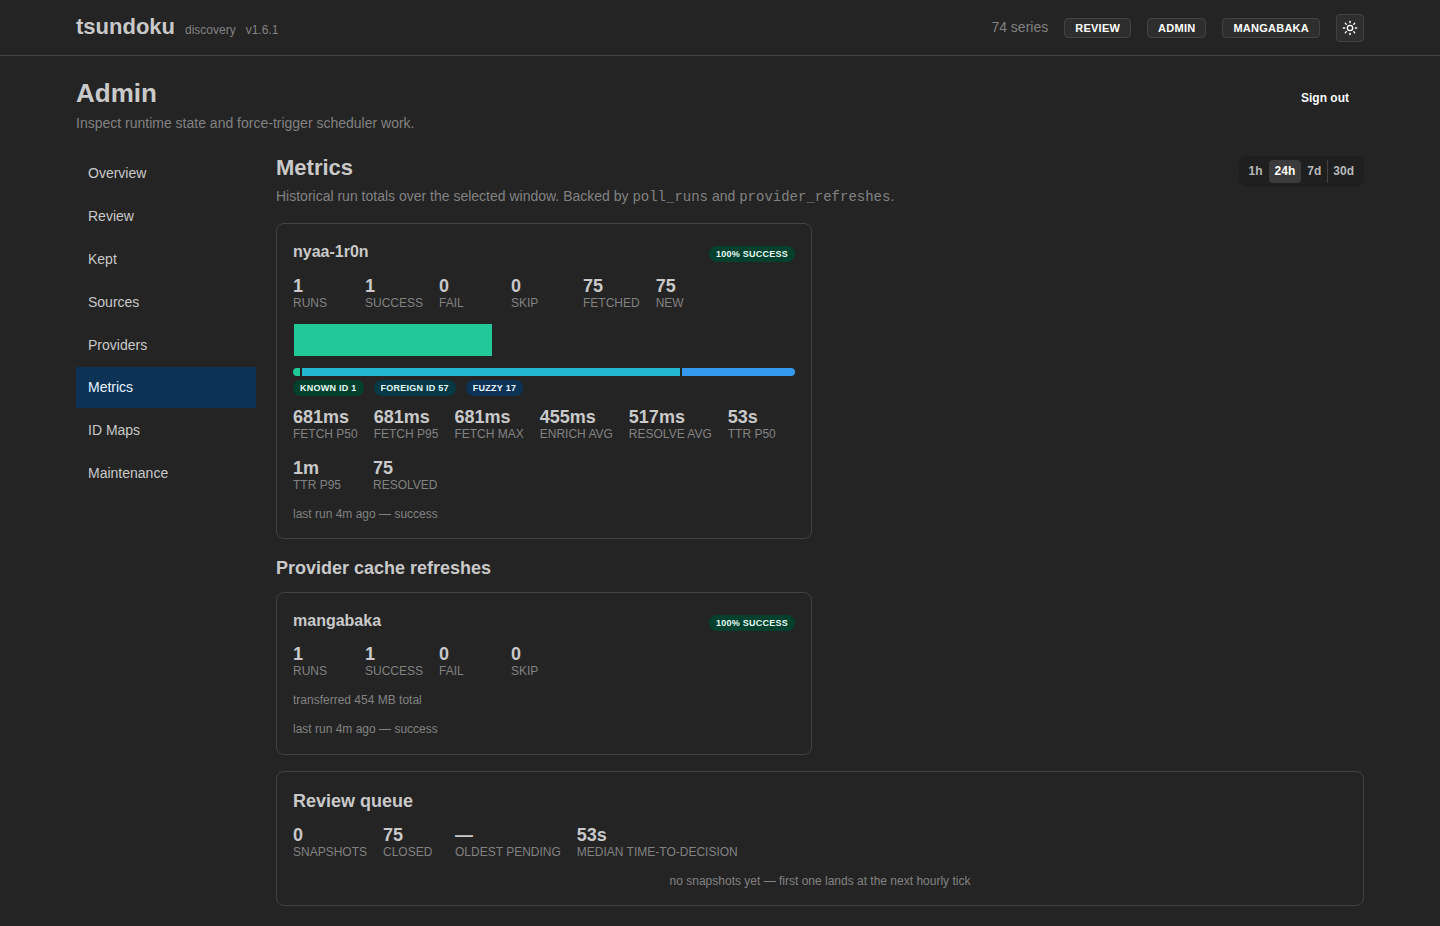
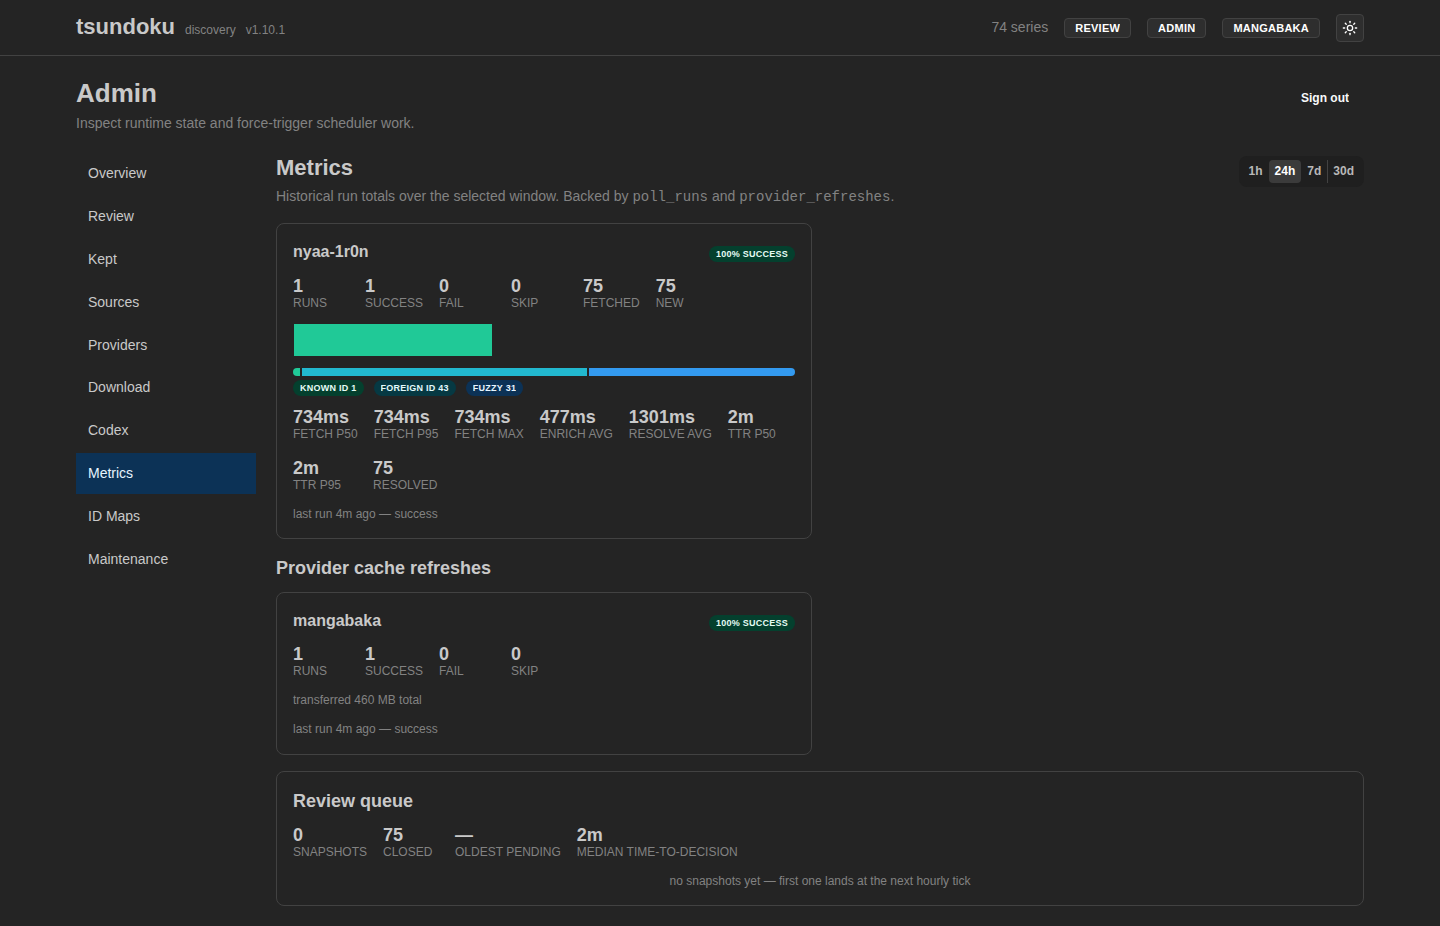
docs: add Download and Codex admin pages with screenshots
Document the two admin pages that split out of the Maintenance page and
wire them into the screenshot pipeline.

- New Download client operator guide covering enablement, what gets sent
  (.torrent vs magnet), the ruTorrent XML-RPC + Basic/Digest transport,
  and the connection-status / send-audit surface.
- Showcase gallery gains Download and Codex entries (in admin nav order);
  Codex connection-status docs now point at the dedicated /admin/codex
  page instead of Maintenance, with a screenshot added.
- New admin-download and admin-codex capture scenarios; the pre-run Codex
  sweep trigger now targets /admin/codex after the card moved off
  Maintenance.
- The download scenario redacts the client base_url to a placeholder at
  capture time so the committed image never ships a real seedbox host,
  failing closed if the row can't be found.
- Refresh the captured admin/browse/series screenshots.

diff --git a/screenshots/scripts/scenarios/admin-download.ts b/screenshots/scripts/scenarios/admin-download.ts
@@ -1,0 +1,51 @@
+import type { BrowserContext, Page } from "playwright";
+import { captureScreenshot } from "../utils/screenshot.js";
+import { waitForElement, waitForPageReady } from "../utils/wait.js";
+
+/// Stand-in for the operator's real client URL in the committed docs
+/// screenshot. The screenshots backend reads the `[download]` block from the
+/// local-only `tsundoku.screenshots.local.toml` overlay, so the captured frame
+/// would otherwise ship the operator's actual seedbox host.
+const PLACEHOLDER_BASE_URL = "https://seedbox.example.com/rutorrent";
+
+export async function run(page: Page, _context: BrowserContext): Promise<void> {
+  console.log("  📤 Capturing admin download client");
+
+  await page.goto("/admin/download");
+  await waitForPageReady(page);
+  // The page renders one of two terminal states once status loads: the
+  // connection card (enabled) or the disabled alert. Wait for either so we
+  // don't catch the loading spinner.
+  await waitForElement(
+    page,
+    '[data-testid="download-card"], [data-testid="download-disabled"]',
+  );
+
+  // When the client is configured, the card prints the real `base_url`. Redact
+  // it before capturing so the committed image never ships a real host. Fail
+  // closed: if the card is up but we can't find the row, abort rather than
+  // capture an unmasked frame.
+  if (await page.$('[data-testid="download-card"]')) {
+    const redacted = await page.evaluate((placeholder) => {
+      const card = document.querySelector('[data-testid="download-card"]');
+      if (!card) return false;
+      // ConfigRow renders a label <Text> ("base_url") followed by its value
+      // <Text>; match the leaf label cell and overwrite its sibling.
+      const label = Array.from(card.querySelectorAll("*")).find(
+        (el) => el.childElementCount === 0 && el.textContent?.trim() === "base_url",
+      );
+      const value = label?.nextElementSibling;
+      if (!value) return false;
+      value.textContent = placeholder;
+      return true;
+    }, PLACEHOLDER_BASE_URL);
+
+    if (!redacted) {
+      throw new Error(
+        "download base_url row not found — refusing to capture a frame that may leak the real client URL",
+      );
+    }
+  }
+
+  await captureScreenshot(page, "admin/download", { fullPage: true });
+}

diff --git a/screenshots/scripts/capture.ts b/screenshots/scripts/capture.ts
@@ -114,14 +114,14 @@ async function main(): Promise<void> {
   }
 }
 
-/// Navigate to the maintenance page and click the Codex "Refresh now"
-/// button, then wait for the sweep to finish. No-ops (with a log line) when
-/// the Codex integration is disabled, since the button isn't rendered then.
+/// Navigate to the Codex page and click the "Refresh now" button, then wait
+/// for the sweep to finish. No-ops (with a log line) when the Codex
+/// integration is disabled, since the button isn't rendered then.
 async function triggerCodexSync(
   page: Page,
   context: BrowserContext,
 ): Promise<void> {
-  console.log("\n🔗 Triggering Codex sync from the maintenance page");
+  console.log("\n🔗 Triggering Codex sync from the Codex page");
   console.log("-".repeat(40));
 
   const before = await getCodexStatus(context.request);
@@ -130,10 +130,10 @@ async function triggerCodexSync(
     return;
   }
 
-  await page.goto("/admin/maintenance");
+  await page.goto("/admin/codex");
   await waitForPageReady(page);
 
-  const refreshButton = '[data-testid="maintenance-codex-refresh-button"]';
+  const refreshButton = '[data-testid="codex-refresh-button"]';
   try {
     await waitForElement(page, refreshButton);
     await page.click(refreshButton);
@@ -165,6 +165,8 @@ async function loadScenarios(): Promise<ScenarioModule[]> {
     { name: "Admin Kept", path: "./scenarios/admin-kept.js" },
     { name: "Admin Sources", path: "./scenarios/admin-sources.js" },
     { name: "Admin Providers", path: "./scenarios/admin-providers.js" },
+    { name: "Admin Download", path: "./scenarios/admin-download.js" },
+    { name: "Admin Codex", path: "./scenarios/admin-codex.js" },
     { name: "Admin Metrics", path: "./scenarios/admin-metrics.js" },
     { name: "Admin ID Maps", path: "./scenarios/admin-id-maps.js" },
     { name: "Admin Maintenance", path: "./scenarios/admin-maintenance.js" },

diff --git a/screenshots/scripts/scenarios/admin-codex.ts b/screenshots/scripts/scenarios/admin-codex.ts
@@ -1,0 +1,14 @@
+import type { BrowserContext, Page } from "playwright";
+import { captureScreenshot } from "../utils/screenshot.js";
+import { waitForElement, waitForPageReady } from "../utils/wait.js";
+
+export async function run(page: Page, _context: BrowserContext): Promise<void> {
+  console.log("  🔗 Capturing admin Codex integration");
+
+  await page.goto("/admin/codex");
+  await waitForPageReady(page);
+  // The status card always renders once the query resolves — whether the
+  // integration is enabled (status body) or disabled (alert inside the card).
+  await waitForElement(page, '[data-testid="codex-card"]');
+  await captureScreenshot(page, "admin/codex", { fullPage: true });
+}

diff --git a/docs/sidebars.ts b/docs/sidebars.ts
@@ -31,6 +31,7 @@ const sidebars: SidebarsConfig = {
         "review-queue",
         "kept-releases",
         "admin-maintenance",
+        "download",
         "codex",
       ],
     },

diff --git a/docs/docs/download.md b/docs/docs/download.md
@@ -1,0 +1,116 @@
+---
+title: Download client
+sidebar_position: 9
+---
+
+# Download client
+
+tsundoku is discovery-centric: its job ends at surfacing a release and linking
+it to a series. The optional **send-to-client integration** adds one more step
+— a button that pushes a discovered release straight into your torrent client
+so you don't have to copy a magnet link by hand.
+
+It is **off by default** and **admin-only**. A public (read-tier) visitor never
+sees the send button, and the integration is configured entirely from the
+`[download]` config block — there is deliberately no settings page, in keeping
+with single-user-from-config. ruTorrent is the only client in v1.
+
+![Download client page](/img/screenshots/admin/download.png)
+
+tsundoku still does **not** track download *progress*. Once a release is handed
+off, the torrent client is the source of truth for what happens next — tsundoku
+only records that the hand-off was attempted.
+
+## Enabling it
+
+Add a `[download]` block (and the per-client `[download.rutorrent]` table) to
+your config:
+
+```toml
+[download]
+enabled             = true
+kind                = "rutorrent"          # only "rutorrent" in v1
+default_label       = "tsundoku"           # omit to let the client apply its own
+default_start       = true                 # false adds the torrent stopped
+prefer_torrent_file = true                 # false sends a magnet URL instead of the .torrent
+health_cron         = "0 * * * *"          # optional recurring re-test; omit to disable
+
+[download.rutorrent]
+base_url            = "https://box.example.com/rutorrent"
+username            = "rutorrent-user"     # the CLIENT'S own HTTP credential, not tsundoku's [auth]
+password            = "rutorrent-pass"     # omit both if the endpoint is unauthenticated
+url_path            = "plugins/httprpc/action.php"  # or "RPC2" for a bare rTorrent mount (the default)
+```
+
+Two things to get right:
+
+- **`[download]` holds client-agnostic settings; the connection nests per
+  kind.** The label, start/stop, and `.torrent`-vs-magnet preference live at
+  `[download]`; the host and credentials live under `[download.rutorrent]`. A
+  second client would add `[download.qbittorrent]` without flattening
+  everyone's keys.
+- **`username` / `password` are the client's own credentials**, unrelated to
+  tsundoku's `[auth] api_key` / `admin_token`. Omit both if the endpoint is
+  unauthenticated. You can supply the password via the
+  `TSUNDOKU_DOWNLOAD__RUTORRENT__PASSWORD` environment variable instead of the
+  file.
+
+When `enabled = true`, `[download.rutorrent].base_url` is **required** —
+tsundoku refuses to start otherwise, rather than silently failing every send.
+
+## How sending works
+
+When the integration is enabled, a **Send to client** button appears on each
+release in the [Review queue](./review-queue.md), on
+[Kept releases](./kept-releases.md), and on the release rows of the series
+detail page. One click hands that release to the configured client.
+
+What gets sent depends on `prefer_torrent_file`:
+
+- **`true`** — tsundoku fetches the release's `.torrent` file (through its own
+  rate limiter) and loads the raw bytes into the client.
+- **`false`** — the magnet URL is sent instead, and the client fetches the
+  metadata itself.
+
+`default_label` tags the torrent (e.g. for a ruTorrent label/category view) and
+`default_start` decides whether it begins downloading immediately or is added
+stopped.
+
+A successful send stamps the release with a **Sent** badge so you can tell at a
+glance what's already been pushed. Every attempt — success **or** failure — is
+recorded in the send audit (see below); a failed send no longer vanishes into a
+bare error toast.
+
+## ruTorrent over XML-RPC
+
+tsundoku talks to ruTorrent over **rTorrent XML-RPC** (`system.client_version`
+for the health probe, `load.raw_start` for sends) at `url_path` — the same wire
+Prowlarr and Sonarr use. Point `url_path` at ruTorrent's httprpc plugin
+(`plugins/httprpc/action.php`) or a bare `RPC2` mount (the default).
+
+The client auto-negotiates **HTTP Basic or Digest** auth: seedbox ruTorrent
+installs typically sit behind Digest-protected Apache, so tsundoku detects the
+challenge and computes the Digest response itself. You don't configure which
+scheme to use — just supply `username` / `password` and tsundoku picks the
+right one from the server's `WWW-Authenticate` header.
+
+## Connection status
+
+The admin **Download** page (`/admin/download`) is read-only plus an on-demand
+test. It shows the effective config (the password is never surfaced, only a
+`set` / `none` credentials badge) and the live connection health:
+
+- **Reachable / Unreachable** — whether the last probe reached the client, with
+  the time of the last test and the last error if it failed.
+- A **Test connection** button to probe the client on demand.
+- A **Recent checks** reachability history (up/down transitions only, so a
+  frequent `health_cron` leaves an uptime timeline rather than one row per
+  tick), populated by the launch probe, the optional `health_cron`, and the
+  Test button.
+- A **Recent sends** audit: one row per send attempt with its outcome, the
+  release it targeted (linked to the series), the label used, and the error if
+  it failed.
+
+The connection is tested once at launch, on demand from this page, and on the
+optional `health_cron`. None of this tracks download progress — that stays with
+the torrent client.

diff --git a/docs/docs/codex.md b/docs/docs/codex.md
@@ -1,6 +1,6 @@
 ---
 title: Codex integration
-sidebar_position: 9
+sidebar_position: 10
 ---
 
 # Codex integration
@@ -95,8 +95,9 @@ unfiltered feed, so it can't be used to probe your library.
 
 ## Connection status
 
-The admin [maintenance page](./admin-maintenance.md) shows a **Codex
-integration** card with the live connection health:
+The admin **Codex** page (`/admin/codex`) shows the live connection health:
+
+![Codex integration page](/img/screenshots/admin/codex.png)
 
 - **Reachable / Unreachable** — whether the last preflight reached Codex.
 - **Auth state** — `Connected`, or one of two distinct failures:
@@ -104,8 +105,11 @@ integration** card with the live connection health:
   - **API key lacks series:read (403)** — the key authenticates but the Codex
     account doesn't have the `series:read` scope. Grant it on the Codex side.
 - **Linked series**, **last sync**, and the **last error** message.
-- A **Refresh now** button to trigger a sweep immediately instead of waiting
-  for the cron.
+- A **Test connection** button to probe Codex on demand, and a **Refresh now**
+  button to trigger a sweep immediately instead of waiting for the cron.
+- A **Recent checks** reachability history (up/down transitions) alongside a
+  **Recent syncs** sweep history (per-sweep outcome, linked/fetched counts, or
+  the error that failed it).
 
 Badges stay hidden until the first successful sweep, so a freshly-enabled
 integration doesn't briefly show everything as "not owned."

diff --git a/docs/docs/showcase.md b/docs/docs/showcase.md
@@ -131,6 +131,31 @@ SHA-1 sidecar that gates re-extraction, and a recent-runs table.
 → Active vs registered, the offline-dump lifecycle, and the API
 fallback toggle: [Providers](./providers.md).
 
+### Download client
+
+The optional send-to-client integration pushes a discovered release
+straight into your torrent client (ruTorrent in v1). This read-only
+page surfaces the configured connection, live reachability with an
+on-demand **Test connection**, and the recent check / send audit —
+every send attempt, success or failure, is recorded here.
+
+![Download client page](/img/screenshots/admin/download.png)
+
+→ Enabling the integration, what gets sent, and the send audit:
+[Download client](./download.md).
+
+### Codex
+
+Connection health for the optional Codex presence sync: reachability,
+auth state, linked-series count, and the per-sweep history. **Test
+connection** probes Codex on demand; **Refresh now** triggers a
+presence sweep so the ownership badges on the feed refresh immediately.
+
+![Codex integration page](/img/screenshots/admin/codex.png)
+
+→ Ownership badges, the sync sweep, and filtering by ownership:
+[Codex integration](./codex.md).
+
 ### Metrics
 
 Time-series charts for source poll volume, resolver throughput,
